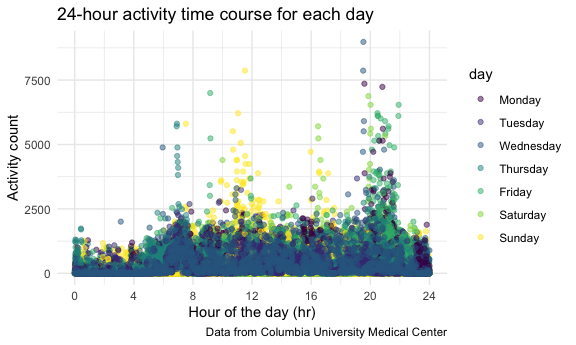
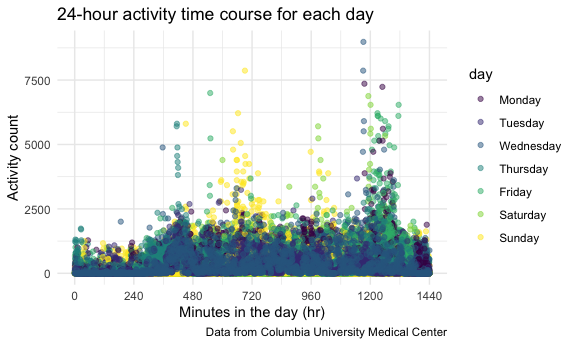
updated r code formatting, edited the x axis for the single panel plot in problem 3 to be in minutes

diff --git a/p8105_hw3_rr3423.md b/p8105_hw3_rr3423.md
@@ -42,6 +42,10 @@ add\_to\_cart\_order, reordered, user\_id, eval\_set, order\_number,
 order\_dow, order\_hour\_of\_day, days\_since\_prior\_order,
 product\_name, aisle\_id, department\_id, aisle, department**.
 
+\*\*give illustrative examples = explain key variables in the dataset,
+don’t need to make plots or variables, only need to write in paragraph
+format
+
 ### Aisles
 
 How many aisles are there, and which aisles are the most items ordered
@@ -360,50 +364,24 @@ in this tidied dataset are **6**.
 
 ``` r
 accel_df %>% 
-  group_by(day_id) %>% 
+  group_by(day) %>% 
   summarize(total_activity = sum(activity_count, na.rm = TRUE)) %>% 
   knitr::kable(digits = 1)
 ```
 
-| day\_id | total\_activity |
-|--------:|----------------:|
-|       1 |        480542.6 |
-|       2 |         78828.1 |
-|       3 |        376254.0 |
-|       4 |        631105.0 |
-|       5 |        355923.6 |
-|       6 |        307094.2 |
-|       7 |        340115.0 |
-|       8 |        568839.0 |
-|       9 |        295431.0 |
-|      10 |        607175.0 |
-|      11 |        422018.0 |
-|      12 |        474048.0 |
-|      13 |        423245.0 |
-|      14 |        440962.0 |
-|      15 |        467420.0 |
-|      16 |        685910.0 |
-|      17 |        382928.0 |
-|      18 |        467052.0 |
-|      19 |        371230.0 |
-|      20 |        381507.0 |
-|      21 |        468869.0 |
-|      22 |        154049.0 |
-|      23 |        409450.0 |
-|      24 |          1440.0 |
-|      25 |        260617.0 |
-|      26 |        340291.0 |
-|      27 |        319568.0 |
-|      28 |        434460.0 |
-|      29 |        620860.0 |
-|      30 |        389080.0 |
-|      31 |          1440.0 |
-|      32 |        138421.0 |
-|      33 |        549658.0 |
-|      34 |        367824.0 |
-|      35 |        445366.0 |
+| day       | total\_activity |
+|:----------|----------------:|
+| Monday    |         1858699 |
+| Tuesday   |         1799238 |
+| Wednesday |         2129772 |
+| Thursday  |         2091151 |
+| Friday    |         2291711 |
+| Saturday  |         1369237 |
+| Sunday    |         1919213 |
 
-### Creating a single-panel plot showing the 24-hour activity time courses for each day
+For this problem, show total minutes for each of the separate 35 days
+
+### Creating a single-panel plot showing the 24-hour activity time course in minutes for each day
 
 ``` r
 accel_df %>% 
@@ -412,14 +390,13 @@ accel_df %>%
   geom_point(alpha = 0.5) + 
   labs(
     title = "24-hour activity time course for each day",
-    x = "Hour of the day (hr)",
+    x = "Minutes in the day (hr)",
     y = "Activity count",
     caption = "Data from Columbia University Medical Center"
   ) + 
   theme(legend.position = "right") + 
   scale_x_continuous(
-    breaks = c(0, 240, 480, 720, 960, 1200, 1440),
-    labels = c("0", "4", "8", "12", "16", "20", "24"))
+    breaks = c(0, 240, 480, 720, 960, 1200, 1440))
 ```
 
 <img src="p8105_hw3_rr3423_files/figure-gfm/activity_time_plot-1.png" width="90%" />
